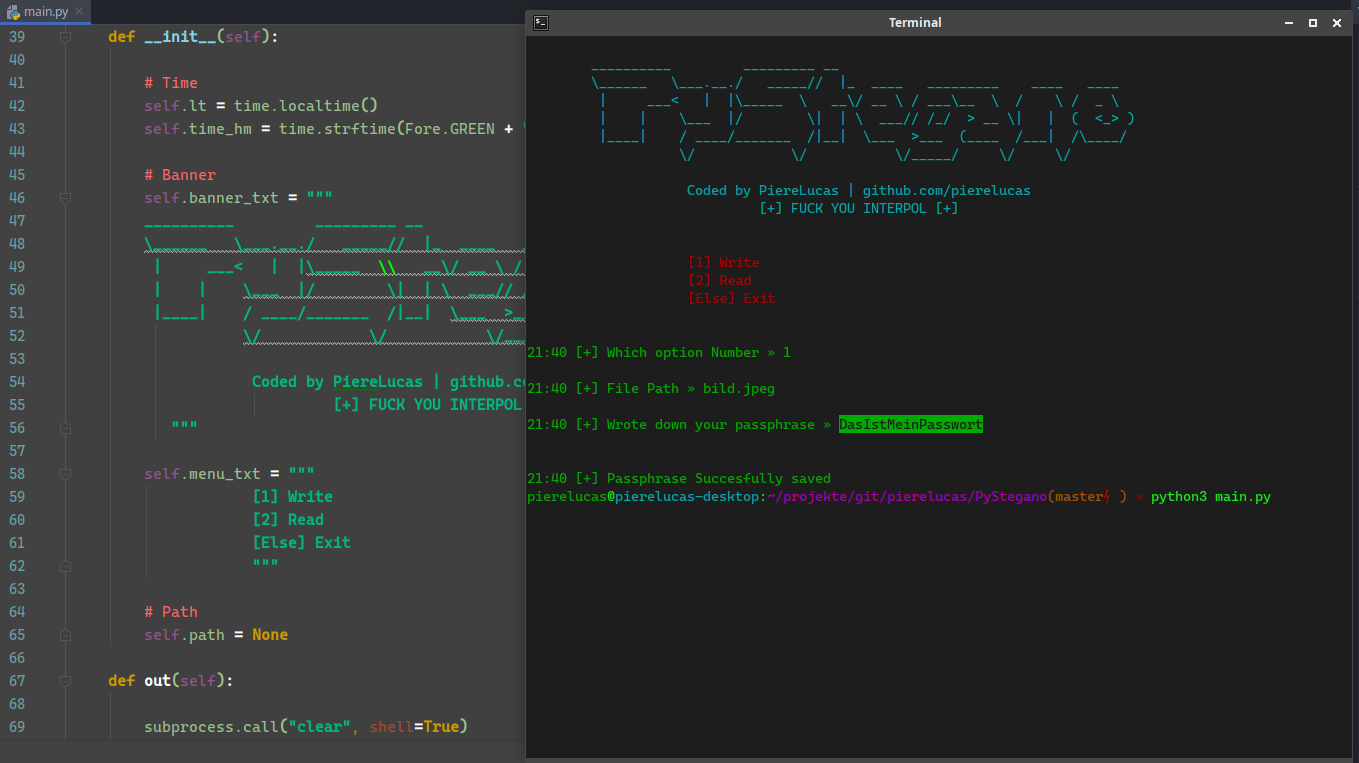
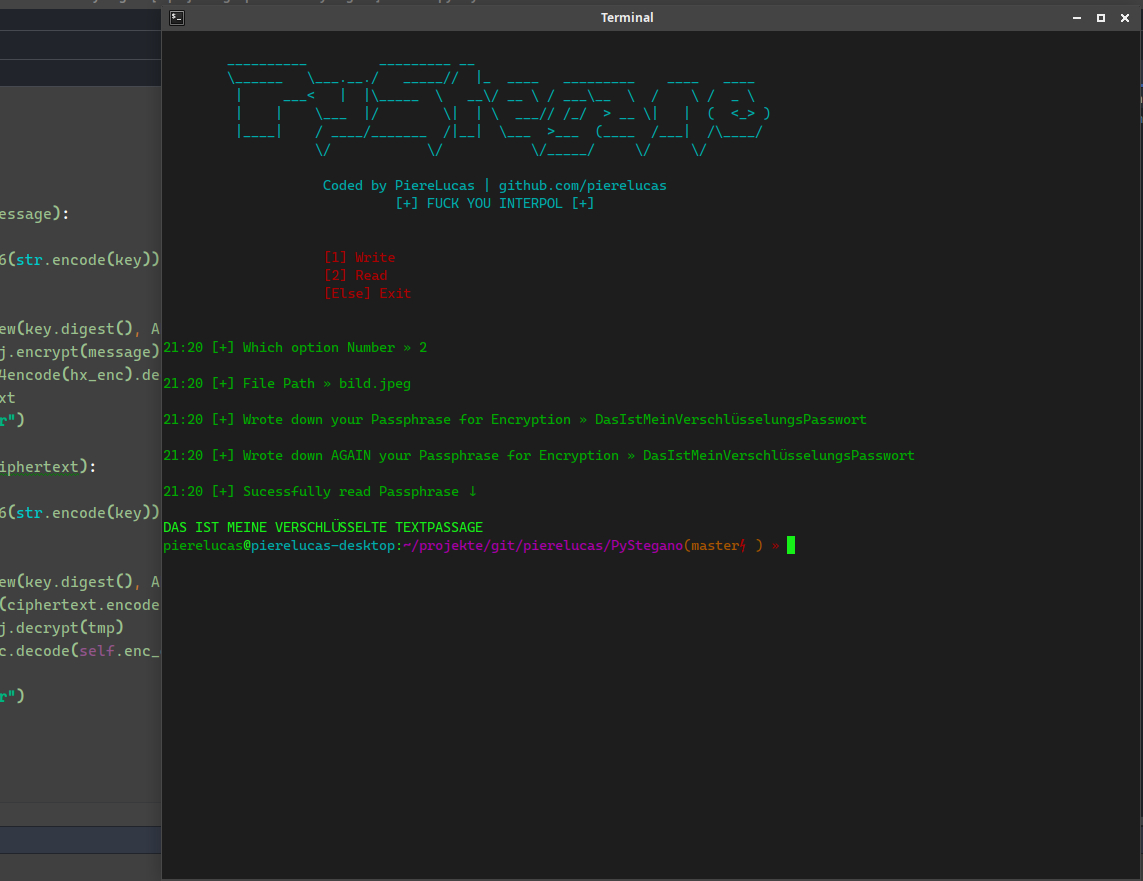
git init

diff --git a/main.py b/main.py
@@ -52,7 +52,7 @@ class PyStegano():
          |     ___<   |  |\_____  \\   __\/ __ \ / ___\__  \  /    \ /  _ \ 
          |    |    \___  |/        \|  | \  ___// /_/  > __ \|   |  (  <_> )
          |____|    / ____/_______  /|__|  \___  >___  (____  /___|  /\____/ 
-                   \/            \/           \/_____/     \/     \/        
+           v.1.2   \/            \/           \/_____/     \/     \/        
            
                     Coded by PiereLucas | github.com/pierelucas
                              [+] FUCK YOU INTERPOL [+]
